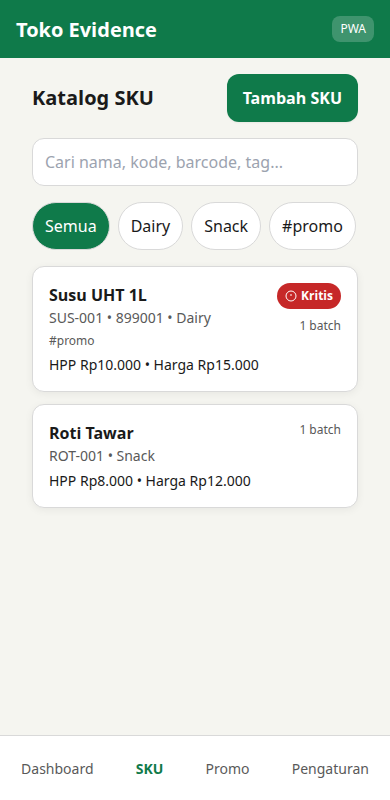
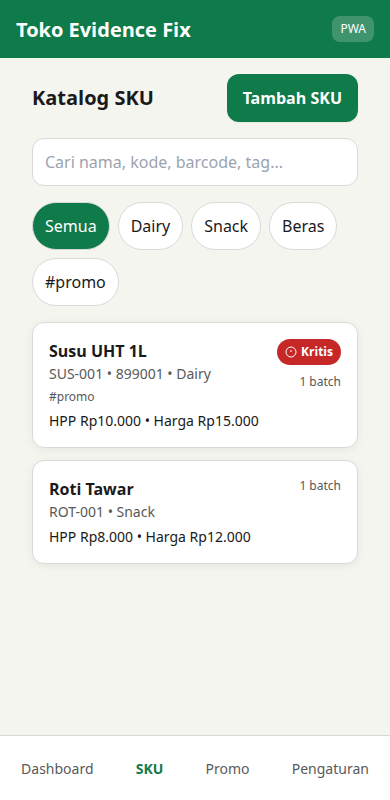
fix(sku): dedupe kategori chips + serialize seed
- seed.ts module-level promise lock serializes concurrent seedDefaultKategoris (StrictMode double-mount race) - 3 parallel now exactly 3 rows
- KatalogPage dedupeKategoris by org_id+nama Map first-wins for chips and badge lookup
- add seed-race.test.ts 2 cases fake-indexeddb dynamic import pattern
- verify bun test 119 pass, playwright 5 pass, build ok, png 44K single chips

diff --git a/src/db/seed-race.test.ts b/src/db/seed-race.test.ts
@@ -1,0 +1,53 @@
+import { describe, expect, test } from "vitest";
+import * as fakeIndexedDB from "fake-indexeddb";
+
+const g = globalThis as unknown as Record<string, unknown>;
+if (!g.indexedDB) {
+  g.indexedDB = fakeIndexedDB.indexedDB;
+  g.IDBKeyRange = fakeIndexedDB.IDBKeyRange;
+}
+
+const { InventoryDB, DexieRepository } = await import("./db");
+const { seedDefaultKategoris } = await import("./seed");
+
+function uniqueName() {
+  return `test-seed-race-${crypto.randomUUID()}`;
+}
+
+describe("seedDefaultKategoris race deduplication", () => {
+  test("3 parallel seed on empty → exactly 3 rows, no duplicates", async () => {
+    const dbName = uniqueName();
+    const db = new InventoryDB(dbName);
+    await db.open();
+    const repo = new DexieRepository(db);
+
+    await Promise.all([
+      seedDefaultKategoris(repo as unknown as Parameters<typeof seedDefaultKategoris>[0]),
+      seedDefaultKategoris(repo as unknown as Parameters<typeof seedDefaultKategoris>[0]),
+      seedDefaultKategoris(repo as unknown as Parameters<typeof seedDefaultKategoris>[0]),
+    ]);
+
+    const rows = await repo.listKategoris("toko-01");
+    expect(rows).toHaveLength(3);
+    const names = rows.map((r) => r.nama).sort();
+    expect(names).toEqual(["Beras", "Dairy", "Snack"]);
+    expect(new Set(rows.map((r) => r.nama)).size).toBe(3);
+
+    db.close();
+  });
+
+  test("sequential seed remains idempotent", async () => {
+    const dbName = uniqueName();
+    const db = new InventoryDB(dbName);
+    await db.open();
+    const repo = new DexieRepository(db);
+
+    await seedDefaultKategoris(repo as unknown as Parameters<typeof seedDefaultKategoris>[0]);
+    await seedDefaultKategoris(repo as unknown as Parameters<typeof seedDefaultKategoris>[0]);
+
+    const rows = await repo.listKategoris("toko-01");
+    expect(rows).toHaveLength(3);
+
+    db.close();
+  });
+});

diff --git a/src/features/sku/KatalogPage.tsx b/src/features/sku/KatalogPage.tsx
@@ -21,6 +21,15 @@ function getMaxThreshold(kategori: Kategori | undefined): number {
   return Math.max(...arr);
 }
 
+function dedupeKategoris(list: Kategori[]): Kategori[] {
+  const seen = new Map<string, Kategori>();
+  for (const k of list) {
+    const key = `${k.org_id}::${k.nama}`;
+    if (!seen.has(key)) seen.set(key, k);
+  }
+  return [...seen.values()];
+}
+
 export function KatalogPage() {
   const [kategoris, setKategoris] = useState<Kategori[]>([]);
   const [skus, setSkus] = useState<SKU[]>([]);
@@ -83,6 +92,8 @@ export function KatalogPage() {
     window.dispatchEvent(new PopStateEvent("popstate"));
   };
 
+  const dedupedKategoris = dedupeKategoris(kategoris);
+
   const searchLower = debouncedSearch.trim().toLowerCase();
 
   const filtered = skus.filter((sku) => {
@@ -106,7 +117,7 @@ export function KatalogPage() {
   });
 
   const isKritisForSku = (sku: SKU): boolean => {
-    const kategori = kategoris.find((k) => k.id === sku.kategori_id);
+    const kategori = dedupedKategoris.find((k) => k.id === sku.kategori_id);
     const maxThreshold = getMaxThreshold(kategori);
     const batches = batchesBySku[sku.id] ?? [];
     for (const b of batches) {
@@ -183,7 +194,7 @@ export function KatalogPage() {
         >
           Semua
         </button>
-        {kategoris.map((k) => (
+        {dedupedKategoris.map((k) => (
           <button
             key={k.id}
             type="button"
@@ -275,7 +286,7 @@ export function KatalogPage() {
             const batches = batchesBySku[sku.id] ?? [];
             const tagsForSku = skuTagsMap[sku.id] ?? [];
             const isExpanded = expandedSku === sku.id;
-            const kategori = kategoris.find((k) => k.id === sku.kategori_id);
+            const kategori = dedupedKategoris.find((k) => k.id === sku.kategori_id);
             return (
               <li
                 key={sku.id}

diff --git a/src/db/seed.ts b/src/db/seed.ts
@@ -23,21 +23,35 @@ const DEFAULT_KATEGORIS: Array<{ nama: string; threshold_h_minus: number[] }> = 
   { nama: "Beras", threshold_h_minus: [...DEFAULT_THRESHOLD_H_MINUS] },
 ];
 
+let seedLock: Promise<void> = Promise.resolve();
+
 /**
  * Seed 3 kategori default jika belum ada.
  * Idempotent: query listKategoris, skip nama yang sudah ada.
  * Pakai createKategori (org_id default toko-01, sync-ready sharding).
+ * Serialize concurrent calls via module-level promise chain — second sees first's rows and skips (fixes React.StrictMode double-mount race).
  */
 export async function seedDefaultKategoris(repo: SeedRepository): Promise<void> {
-  const existing = await repo.listKategoris("toko-01");
-  const existingNames = new Set(existing.map((k) => k.nama));
+  const prev = seedLock;
+  let release!: () => void;
+  seedLock = new Promise<void>((res) => {
+    release = res;
+  });
+  await prev;
+  try {
+    const existing = await repo.listKategoris("toko-01");
+    const existingNames = new Set(existing.map((k) => k.nama));
 
-  for (const k of DEFAULT_KATEGORIS) {
-    if (!existingNames.has(k.nama)) {
-      await repo.createKategori({
-        nama: k.nama,
-        threshold_h_minus: [...k.threshold_h_minus],
-      });
+    for (const k of DEFAULT_KATEGORIS) {
+      if (!existingNames.has(k.nama)) {
+        await repo.createKategori({
+          nama: k.nama,
+          threshold_h_minus: [...k.threshold_h_minus],
+        });
+        existingNames.add(k.nama);
+      }
     }
+  } finally {
+    release();
   }
 }

diff --git a/.omo/notepads/inventory-userflow-rewrite/learnings.md b/.omo/notepads/inventory-userflow-rewrite/learnings.md
@@ -18,3 +18,4 @@
 - 2026-09-03: HPP timpa pattern — applyHargaBeli transaction rw skus+hpp_history (bukan repository.createHppHistory terpisah) agar arsip+timpa atomic; createBatch dengan harga_beli harus panggil applyHargaBeli sebelum createBatch agar sku.hpp sudah baru saat batch disimpan; hpp_snapshot batch = harga_beli langsung (jangan ambil ulang sku.hpp setelah apply karena sama, tapi eksplisit lebih jelas); validation.ts tidak boleh disentuh — guardrail HPP*0.85 floor pakai hpp_snapshot batch, dibuktikan test 9000 valid terhadap batch 10000 tapi invalid terhadap sku 12000; fake-indexeddb isolated db per test via uniqueName + pass dbInstance ke helper, batchService singleton tetap pakai global db jadi test HPP helper pakai custom db, integration batch snapshot test via repo.createBatch langsung bukan via singleton createBatch; warning string exact "Harga normal di bawah HPP baru"
 - 2026-09-03 Task07: guard AuthGuard harus refresh setelah LoginPage onSuccess, jangan pakai navigate — setLoggedIn + refresh state cukup; e2e pre-seed PIN via window.__PIN_STORE__.setPin agar hash sama dengan production, jangan tulis pinStore-v1 manual base64 salah
 - 2026-09-03 Task08 Katalog real — KatalogPage baca Dexie real realRepo.listSkus/listKategoris/listBatchesBySku + dexieV2.tags/sku_tags langsung (repo string-id belum punya tag API), debounce 300ms via useDebouncedValue hook, filter nama/kode/barcode/tag lowered, chips Semua+kategori+tag (tag prefix #), badge kritis pakai daysToExpiry engine + max threshold kategori (Math.max(...threshold_h_minus), fallback [7,3,1]), expand SKU → BatchRows inline (batch expiry null → Tanpa kadaluarsa, kritis batch background #FFEBEE), empty All → Belum ada SKU + tombol Tambah SKU 48px 16px, empty search → Tidak ada hasil + live polite, tombol Tambah SKU → pushState /sku/baru + placeholder Segera hadir (task9), expose __REAL_REPO__/__DEXIE_V2__ via dynamic import di AppShell untuk e2e seeding repo langsung (bukan UI form), AuthGuard loginSetup via UI PIN sebelum katalog; bun test 117 pass, build 1729 ok, playwright 5 pass, evidence inventory-userflow-08-katalog.png 42K
+- 2026-09-03 Task08 FIX dedupe+seed-lock — QA hands-on found 6 rows kategori duplicates (Dairy/Snack/Beras x2) via React.StrictMode double-mount fire-and-forget seedDefaultKategoris in UrgentList:100 + SkuBatchManager:35 race; fix 1) src/db/seed.ts module-level seedLock Promise chain serialize concurrent calls (prev await then re-check listKategoris, add to Set after create), no schema change; 2) KatalogPage dedupeKategoris by `${org_id}::${nama}` Map first-wins used for chips rendering and badge maxThreshold lookup; test src/db/seed-race.test.ts 2 case (3 parallel empty -> 3 rows, sequential idempotent) using fake-indexeddb dynamic import pattern; bun test 119 pass (was 117), build ok, playwright 5 pass, png 44K chips 5 cat 3 not 6, json evidence 08-katalog.json created

diff --git a/.omo/notepads/inventory-userflow-rewrite/decisions.md b/.omo/notepads/inventory-userflow-rewrite/decisions.md
@@ -12,3 +12,4 @@
 - 2026-09-03: Task 06 HPP timpa — helper applyHargaBeli(skuId, hargaBeli, org, db) di src/db/hpp.ts transaction rw skus+hpp_history arsip {sku_id, hpp_lama, hpp_baru, created_at, org_id}, timpa sku.hpp=hargaBeli, return warning "Harga normal di bawah HPP baru" jika harga_normal < hpp_baru (warning bukan reject); validasi >0 "Harga beli harus lebih dari 0" untuk 0/negatif/NaN/Infinity; batchService.createBatch tambah harga_beli?:number, jika ada panggil applyHargaBeli lalu hpp_snapshot=harga_beli (bukan sku.hpp lama), tanpa harga_beli → hpp_snapshot=sku.hpp lama tidak timpa; guardrail promo tetap pakai hpp_snapshot batch (validateHargaTebus HPP*0.85) tidak ubah validation.ts; test 8 case (timpa+arsip, warning, no warning, 0 reject, negatif reject, snapshot=harga_beli, tanpa harga_beli no timpa, guardrail snapshot vs sku.hpp), bun test src 117 pass (16 files), build 1731 modules ok, evidence 06-hpp.json, branch feat/hpp-overwrite
 - 2026-09-03: Task 07 LoginPage PIN + nama toko + guard — LoginPage setup vs login mode via isPinSet(), nama_toko localStorage profil_toko_v1 + best-effort Dexie settings profil_toko (TODO migrasi backup v2 task 24), sessionStorage auth-logged-in-v1 hilang saat tab tutup, lockout 5x salah = 30 detik in-memory countdown Bahasa Indonesia, header tampil nama_toko via getProfilToko(), guard AuthGuard belum login → LoginPage histori route tetap guarded, PIN reuse pinStore setPin/verifyPin hash PBKDF2 100k tidak plaintext, tombol 48px font 16px Bahasa Indonesia, e2e 5 case hijau, evidence 07-auth.png/log/json
 - 2026-09-03 Task08 katalog: pilih KatalogPage pure real Dexie tanpa SkuBatchManager form (form task9), chips tag via dexieV2 langsung karena repository string-id belum cover tags, kritis via engine daysToExpiry bukan hardcode 7/3/1, placeholder /sku/baru Segera hadir jangan placeholder lain, expose seeding helper di AppShell dynamic import agar e2e bisa repo seeding tanpa UI
+- 2026-09-03 Task08 fix decision: serialize seed via promise lock not via DB unique index, keep idempotent skip logic, defensive dedupe di UI untuk DB legacy yang sudah terlanjur duplikat, first-wins

diff --git a/.omo/notepads/inventory-userflow-rewrite/issues.md b/.omo/notepads/inventory-userflow-rewrite/issues.md
@@ -7,3 +7,4 @@
 - 2026-09-03 Task07: nama_toko Dexie settings table belum ada di db.ts v2 — pakai localStorage profil_toko_v1 + TODO migrasi task24 backup v2; existing e2e suites (dashboard/pwa) sekarang butuh login dulu — akan di-fix task21 dashboard real
 - 2026-09-03 task7: AuthGuard aktif → SEMUA e2e spec lama akan kena login page. Spec baru WAJIB login dulu (setup PIN via UI atau seed localStorage+sessionStorage). Fix massal existing suites di task 21. QA MCP manual task 7: setup/login/reload/guard/salah-PIN + console 0 errors, semua PASS via MCP + CLI 5/5.
 - 2026-09-03 Task08 gotcha preview server untuk screenshot evidence — npx playwright test auto start server tapi node -e manual butuh bun run preview manual & wait curl 200, kill setelah selesai. Gotcha tag repo string-id belum punya listTags API — pakai dexieV2.tags.where langsung, sku_tags mapping via tagById Map, jangan pakai InventoryRepository lama (numeric ids).
+- 2026-09-03 Task08 race gotcha — React.StrictMode mounts twice in dev, fire-and-forget seed without await + check-then-insert = classic TOCTOU duplicate; fix harus lock di module level bukan di component, dedupe UI sebagai defense-in-depth untuk data legacy
